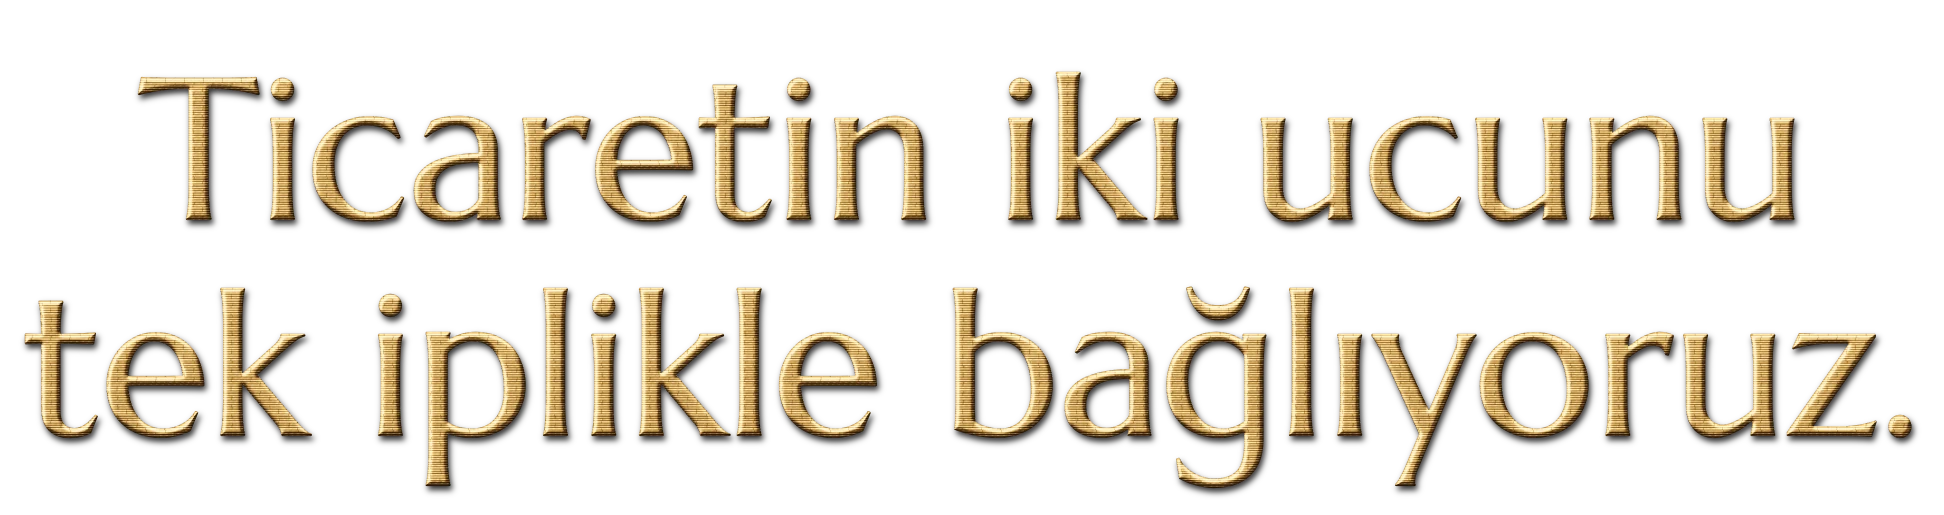
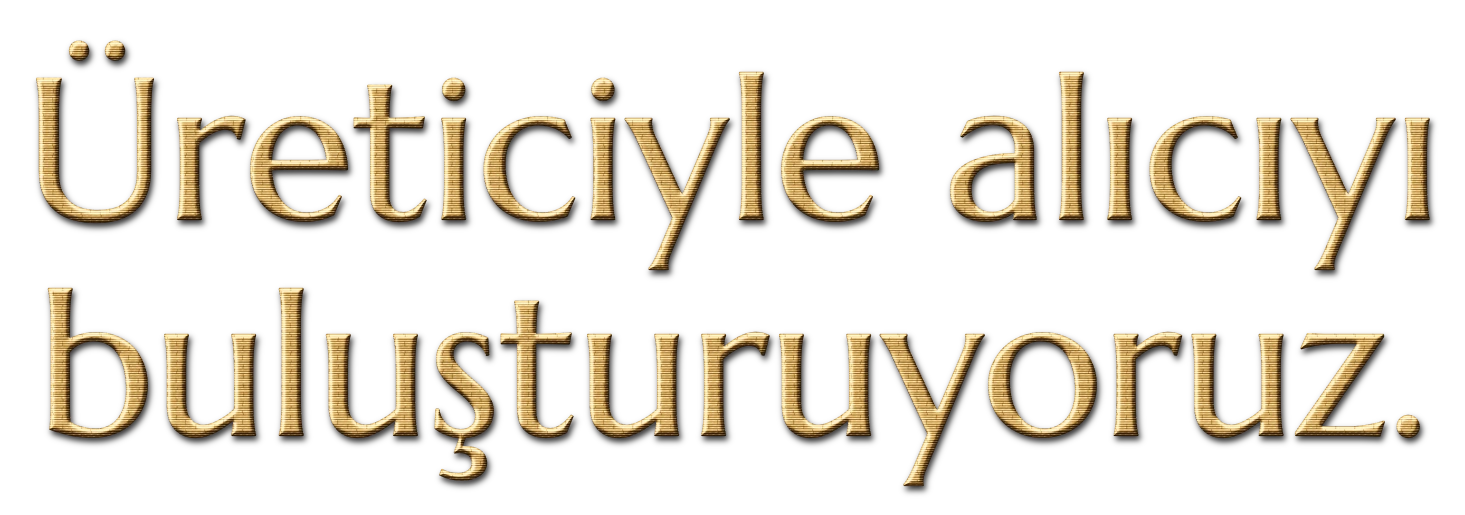
Sync from artiva: plain-language copy, page-wide sheen

diff --git a/index.html b/index.html
@@ -4,10 +4,10 @@
 <meta charset="utf-8">
 <meta name="viewport" content="width=device-width, initial-scale=1">
 <title>ARTİVA — İç ve Dış Ticaret A.Ş.</title>
-<meta name="description" content="ARTIVA İç ve Dış Ticaret A.Ş. — İstanbul merkezli aracılık ve ticaret şirketi: üretici araştırması, alıcı–satıcı buluşturma, ithalat-ihracat yönetimi ve kendi hesabına alım-satım.">
+<meta name="description" content="ARTIVA İç ve Dış Ticaret A.Ş. — İstanbul'da aracılık ve ticaret: üretici bulma, alıcı ve satıcıyı buluşturma, ithalat ve ihracat işlemleri, kendi hesabına alım satım.">
 <meta name="theme-color" content="#0B1124">
 <meta property="og:title" content="ARTİVA — İç ve Dış Ticaret A.Ş.">
-<meta property="og:description" content="Ticaretin iki ucunu tek iplikle bağlıyoruz.">
+<meta property="og:description" content="Üreticiyle alıcıyı buluşturuyoruz.">
 <meta property="og:image" content="assets/dival/logo-dival-photo.webp">
 <link rel="icon" type="image/svg+xml" href="logo/artiva-mark.svg">
 <link rel="preload" as="image" href="assets/dival/logo-dival-cut.webp">
@@ -72,10 +72,18 @@ section[id]{scroll-margin-top:84px}
 .plate{display:block;width:calc(var(--w) * 1em);max-width:100%;height:auto;margin-left:-.12em}
 .cord{height:12px;background:var(--cord) 0 0 / 600px 12px repeat-x}
 .velvet-lit{position:relative;isolation:isolate}
-.velvet-lit::before{ /* soft pile sheen: velvet catches light in broad pools */
+.velvet-lit::before{ /* soft pile sheen: velvet catches light in broad pools (a fixed pool where there is no pointer) */
   content:"";position:absolute;inset:0;z-index:-1;pointer-events:none;
-  background:radial-gradient(ellipse 60% 55% at var(--lx,50%) var(--ly,38%), rgba(120,140,205,.16), rgba(120,140,205,0) 70%);
+  background:radial-gradient(ellipse 60% 55% at 50% 38%, rgba(120,140,205,.16), rgba(120,140,205,0) 70%);
 }
+/* with a mouse the pool follows the pointer over the whole page: one fixed layer, so no section edge can cut it */
+.sheen{
+  position:fixed;inset:0;z-index:40;pointer-events:none;mix-blend-mode:soft-light;opacity:0;
+  transition:opacity .6s var(--ease);
+  background:radial-gradient(circle 560px at var(--lx,50%) var(--ly,40%), rgba(255,255,255,.36), rgba(255,255,255,0) 72%);
+}
+html.lit .sheen.on{opacity:1}
+html.lit .velvet-lit::before{display:none}
 
 /* ---------- buttons ---------- */
 .btn{
@@ -189,7 +197,7 @@ section[id]{scroll-margin-top:84px}
 .sectors{text-align:center}
 .sectors .h2{margin-bottom:18px}
 .sectors .intro{margin:0 auto}
-.medallion-wrap{position:relative;width:min(760px, 100%);aspect-ratio:1;margin:56px auto 0}
+.medallion-wrap{position:relative;width:min(760px, 100%);aspect-ratio:1;margin:56px auto 0;container-type:inline-size}
 .medallion{position:absolute;inset:22%;display:grid;place-items:center}
 .medallion .ring{position:absolute;inset:0;width:100%;height:100%}
 .medallion .mark{width:54%;height:auto;margin-top:-10%}
@@ -201,7 +209,9 @@ section[id]{scroll-margin-top:84px}
 .sector-list li{
   --a:calc(var(--i) * 45deg - 90deg);
   position:absolute;left:50%;top:50%;
-  transform:translate(-50%, -50%) rotate(var(--a)) translate(min(340px, 44vw)) rotate(calc(-1 * var(--a)));
+  transform:translate(-50%, -50%) rotate(var(--a)) translate(min(340px, 40vw)) rotate(calc(-1 * var(--a)));
+  /* the radius follows the circle, not the window, so the side labels never pass the screen edge */
+  transform:translate(-50%, -50%) rotate(var(--a)) translate(min(340px, 42cqi)) rotate(calc(-1 * var(--a)));
 }
 .sector-list button{
   border:0;background:transparent;padding:10px 12px;border-radius:8px;
@@ -317,10 +327,10 @@ section[id]{scroll-margin-top:84px}
       <span>ARTİVA</span>
     </a>
     <nav class="nav" id="nav" aria-label="Ana menü">
-      <a href="#biz" data-i18n="nav.who">Biz kimiz</a>
-      <a href="#hizmetler" data-i18n="nav.what">Ne yapıyoruz</a>
+      <a href="#biz" data-i18n="nav.who">Hakkımızda</a>
+      <a href="#hizmetler" data-i18n="nav.what">Hizmetler</a>
       <a href="#sektorler" data-i18n="nav.sectors">Sektörler</a>
-      <a href="#yol" data-i18n="nav.how">Nasıl ilerliyoruz</a>
+      <a href="#yol" data-i18n="nav.how">Nasıl çalışıyoruz</a>
       <a href="#iletisim" data-i18n="nav.contact">İletişim</a>
     </nav>
     <div class="tools">
@@ -342,14 +352,14 @@ section[id]{scroll-margin-top:84px}
       <img src="assets/dival/logo-dival-cut.webp" alt="ARTİVA İç ve Dış Ticaret Anonim Şirketi" width="1200" height="1043" fetchpriority="high">
       <div class="shine" aria-hidden="true"></div>
     </div>
-    <h1><span class="sr-only" data-i18n="hero.title">Ticaretin iki ucunu tek iplikle bağlıyoruz.</span><img class="plate" data-plate="h1" src="assets/dival/plate-h1-tr.webp" alt="" width="1944" height="515" style="--w:9.7214"></h1>
-    <p class="lede" data-i18n="hero.lede">Üreticiyi alıcıyla buluşturuyor, gerektiğinde malı kendimiz alıp satıyoruz — İstanbul'dan, yurt içine ve yurt dışına.</p>
+    <h1><span class="sr-only" data-i18n="hero.title">Üreticiyle alıcıyı buluşturuyoruz.</span><img class="plate" data-plate="h1" src="assets/dival/plate-h1-tr.webp" alt="" width="1465" height="515" style="--w:7.3269"></h1>
+    <p class="lede" data-i18n="hero.lede">Size uygun üreticiyi ya da alıcıyı buluyoruz; gerektiğinde ürünü kendimiz alıp satıyoruz. İstanbul'dan Türkiye'nin her yerine ve yurt dışına çalışıyoruz.</p>
     <div class="actions">
       <a class="btn" href="tel:+905332566813">
         <svg viewBox="0 0 24 24" fill="none" stroke="currentColor" stroke-width="1.8" stroke-linecap="round" stroke-linejoin="round" aria-hidden="true"><path d="M5 4h4l2 5-2.5 1.5a11 11 0 0 0 5 5L15 13l5 2v4a2 2 0 0 1-2 2A16 16 0 0 1 3 6a2 2 0 0 1 2-2"/></svg>
         <span data-i18n="hero.call">Bizi arayın</span>
       </a>
-      <a class="btn btn--line" href="#hizmetler" data-i18n="hero.more">Ne yapıyoruz</a>
+      <a class="btn btn--line" href="#hizmetler" data-i18n="hero.more">Hizmetlerimiz</a>
     </div>
   </section>
 
@@ -358,17 +368,17 @@ section[id]{scroll-margin-top:84px}
   <section class="section" id="biz">
     <div class="wrap">
       <div class="roles-head">
-        <h2 class="h2"><span class="sr-only" data-i18n="who.title">Hem aracı, hem tüccar.</span><img class="plate" data-plate="who" src="assets/dival/plate-who-tr.webp" alt="" width="1122" height="515" style="--w:5.6091"></h2>
-        <p class="intro" data-i18n="who.intro">ARTIVA İç ve Dış Ticaret A.Ş., Avrupa ile Asya'nın buluştuğu İstanbul'da, Kağıthane'de kurulu bir ticaret şirketidir. Bazı işlerde tarafları buluşturup süreci yönetiriz; bazılarında ürünü kendi hesabımıza alır, alıcısına biz teslim ederiz. Hangisinin size uygun olduğuna işin başında birlikte karar veririz.</p>
+        <h2 class="h2"><span class="sr-only" data-i18n="who.title">Hem aracıyız hem tedarikçiyiz.</span><img class="plate" data-plate="who" src="assets/dival/plate-who-tr.webp" alt="" width="1571" height="514" style="--w:7.8587"></h2>
+        <p class="intro" data-i18n="who.intro">ARTIVA İç ve Dış Ticaret A.Ş., İstanbul Kağıthane'de bulunan bir ticaret şirketidir. Bazı işlerde alıcıyla satıcıyı buluşturur, süreci baştan sona yönetiriz. Bazı işlerde ise ürünü kendimiz satın alır, alıcıya biz teslim ederiz. Hangi yolun size uygun olduğuna işin başında birlikte karar veririz.</p>
       </div>
       <div class="roles">
         <article class="role">
-          <h3 data-i18n="who.r1.title">Aracı olarak, doğru kapıyı biz çalarız.</h3>
-          <p data-i18n="who.r1.text">Uygun üreticiyi ya da alıcıyı bulur, teklifleri karşılaştırır, görüşmeleri ve siparişi koordine ederiz. Mal, sizinle karşı taraf arasında el değiştirir; biz süreci bir arada tutarız.</p>
+          <h3 data-i18n="who.r1.title">Aracı olarak: doğru firmayı biz buluruz.</h3>
+          <p data-i18n="who.r1.text">Size uygun üreticiyi ya da alıcıyı bulur, teklifleri karşılaştırır, görüşmeleri ve siparişi takip ederiz. Ürün doğrudan sizinle karşı taraf arasında el değiştirir; işin düzgün yürümesini biz sağlarız.</p>
         </article>
         <article class="role">
-          <h3 data-i18n="who.r2.title">Tüccar olarak, karşınızda tek satıcı olur.</h3>
-          <p data-i18n="who.r2.text">Ürünü biz satın alır, faturalandırır ve teslim ederiz. Tek sözleşme, tek fatura, tek muhatap: tedarik zincirinin geri kalanı bizim işimizdir.</p>
+          <h3 data-i18n="who.r2.title">Tedarikçi olarak: tek muhatabınız biziz.</h3>
+          <p data-i18n="who.r2.text">Ürünü biz satın alır, faturasını keser ve size teslim ederiz. Tek sözleşme, tek fatura, tek muhatap. Gerisini biz hallederiz.</p>
         </article>
       </div>
     </div>
@@ -377,17 +387,17 @@ section[id]{scroll-margin-top:84px}
   <section class="section" id="hizmetler" style="padding-top:0">
     <div class="wrap services">
       <div class="services-head">
-        <h2 class="h2"><span class="sr-only" data-i18n="svc.title">Yedi iş, tek adres.</span><img class="plate" data-plate="svc" src="assets/dival/plate-svc-tr.webp" alt="" width="913" height="514" style="--w:4.5657"></h2>
-        <p class="intro" data-i18n="svc.intro">Bir ürünün fabrikadan alıcısına ulaşması için gereken her ilmeği tek elden atıyoruz.</p>
+        <h2 class="h2"><span class="sr-only" data-i18n="svc.title">Yedi hizmet, tek adres.</span><img class="plate" data-plate="svc" src="assets/dival/plate-svc-tr.webp" alt="" width="1167" height="515" style="--w:5.8377"></h2>
+        <p class="intro" data-i18n="svc.intro">Bir ürünün fabrikadan alıcıya ulaşması için gereken her adımı tek elden yürütüyoruz.</p>
       </div>
       <ul class="svc-list">
-        <li class="svc"><img src="assets/dival/icon-own.webp" alt="" width="200" height="200" loading="lazy"><h3 data-i18n="s1.t">Kendi hesabımıza alım-satım</h3><p data-i18n="s1.d">Ürünü üreticiden biz alır, size tek fatura ile satarız. Tedarikin riskini ve takibini üstleniriz.</p></li>
-        <li class="svc"><img src="assets/dival/icon-wholesale.webp" alt="" width="200" height="200" loading="lazy"><h3 data-i18n="s2.t">Toptan tedarik</h3><p data-i18n="s2.d">Düzenli ve yüksek hacimli ihtiyaçlar için kesintisiz bir ürün akışı ve yedek kaynak planı kurarız.</p></li>
-        <li class="svc"><img src="assets/dival/icon-supplier.webp" alt="" width="200" height="200" loading="lazy"><h3 data-i18n="s3.t">Üretici araştırması</h3><p data-i18n="s3.d">İhtiyacınıza uyan fabrikaları bulur; kapasite, ürün yelpazesi ve fiyat seviyesine göre kısa liste çıkarırız.</p></li>
-        <li class="svc"><img src="assets/dival/icon-matching.webp" alt="" width="200" height="200" loading="lazy"><h3 data-i18n="s4.t">Alıcı–satıcı buluşturma</h3><p data-i18n="s4.d">Doğru alıcıyı doğru üreticiyle tanıştırır, ilk görüşmeyi biz hazırlarız.</p></li>
-        <li class="svc"><img src="assets/dival/icon-trade.webp" alt="" width="200" height="200" loading="lazy"><h3 data-i18n="s5.t">İthalat ve ihracat yönetimi</h3><p data-i18n="s5.d">Sınır ötesi işlerde yazışmayı, numuneyi, evrakı ve sevkiyat takvimini tek masadan yürütürüz.</p></li>
-        <li class="svc"><img src="assets/dival/icon-terms.webp" alt="" width="200" height="200" loading="lazy"><h3 data-i18n="s6.t">Ürün tanımı ve fiyat çerçevesi</h3><p data-i18n="s6.d">Ürünü, miktarı, kalite beklentisini ve hedef fiyatı yazıya dökeriz; pazarlık sağlam bir zeminde başlar.</p></li>
-        <li class="svc"><img src="assets/dival/icon-market.webp" alt="" width="200" height="200" loading="lazy"><h3 data-i18n="s7.t">Pazar okuması</h3><p data-i18n="s7.d">Yeni bir ürün ya da ülkeye girmeden önce talebi, rakipleri ve fiyat bandını inceler, kısa bir özet sunarız.</p></li>
+        <li class="svc"><img src="assets/dival/icon-own.webp" alt="" width="200" height="200" loading="lazy"><h3 data-i18n="s1.t">Kendi hesabımıza alım satım</h3><p data-i18n="s1.d">Ürünü üreticiden biz alır, size tek faturayla satarız. Tedarik riskini ve takibini biz üstleniriz.</p></li>
+        <li class="svc"><img src="assets/dival/icon-wholesale.webp" alt="" width="200" height="200" loading="lazy"><h3 data-i18n="s2.t">Toptan tedarik</h3><p data-i18n="s2.d">Düzenli ve büyük miktarlı alımlarda ürünün aksamadan gelmesini sağlar, yedek bir tedarikçiyi de hazır tutarız.</p></li>
+        <li class="svc"><img src="assets/dival/icon-supplier.webp" alt="" width="200" height="200" loading="lazy"><h3 data-i18n="s3.t">Üretici bulma</h3><p data-i18n="s3.d">İhtiyacınıza uygun fabrikaları bulur; kapasite, ürün çeşidi ve fiyata göre kısa bir liste hazırlarız.</p></li>
+        <li class="svc"><img src="assets/dival/icon-matching.webp" alt="" width="200" height="200" loading="lazy"><h3 data-i18n="s4.t">Alıcı ve satıcıyı buluşturma</h3><p data-i18n="s4.d">Doğru alıcıyı doğru üreticiyle tanıştırır, ilk görüşmeyi biz hazırlarız.</p></li>
+        <li class="svc"><img src="assets/dival/icon-trade.webp" alt="" width="200" height="200" loading="lazy"><h3 data-i18n="s5.t">İthalat ve ihracat işlemleri</h3><p data-i18n="s5.d">Yurt dışıyla yapılan işlerde yazışmaları, numuneleri, belgeleri ve sevkiyat tarihlerini tek elden takip ederiz.</p></li>
+        <li class="svc"><img src="assets/dival/icon-terms.webp" alt="" width="200" height="200" loading="lazy"><h3 data-i18n="s6.t">Ürün ve fiyat netleştirme</h3><p data-i18n="s6.d">Ürünü, miktarı, beklenen kaliteyi ve hedef fiyatı yazılı hâle getiririz; pazarlık sağlam bir temelle başlar.</p></li>
+        <li class="svc"><img src="assets/dival/icon-market.webp" alt="" width="200" height="200" loading="lazy"><h3 data-i18n="s7.t">Pazar araştırması</h3><p data-i18n="s7.d">Yeni bir ürüne ya da ülkeye girmeden önce talebi, rakipleri ve fiyatları inceler, size kısa bir rapor sunarız.</p></li>
       </ul>
     </div>
   </section>
@@ -396,8 +406,8 @@ section[id]{scroll-margin-top:84px}
 
   <section class="section sectors" id="sektorler">
     <div class="wrap">
-      <h2 class="h2"><span class="sr-only" data-i18n="sec.title">Sekiz sektör, tek masa.</span><img class="plate" data-plate="sec" src="assets/dival/plate-sec-tr.webp" alt="" width="2036" height="299" style="--w:10.1819"></h2>
-      <p class="intro" data-i18n="sec.intro">Aynı titizlikle çalıştığımız alanlar. Ayrıntı için birini seçin.</p>
+      <h2 class="h2"><span class="sr-only" data-i18n="sec.title">Sekiz sektör, tek ekip.</span><img class="plate" data-plate="sec" src="assets/dival/plate-sec-tr.webp" alt="" width="1952" height="299" style="--w:9.7629"></h2>
+      <p class="intro" data-i18n="sec.intro">Aynı özenle çalıştığımız alanlar. Ayrıntıları görmek için birini seçin.</p>
       <div class="medallion-wrap">
         <div class="medallion">
           <img class="ring" src="assets/dival/ring.webp" alt="" width="700" height="700" loading="lazy">
@@ -411,7 +421,7 @@ section[id]{scroll-margin-top:84px}
           <li style="--i:3"><button type="button" aria-pressed="false" data-key="x4" data-i18n="x4.t">Gıda ve tarım</button></li>
           <li style="--i:4"><button type="button" aria-pressed="false" data-key="x5" data-i18n="x5.t">Elektronik</button></li>
           <li style="--i:5"><button type="button" aria-pressed="false" data-key="x6" data-i18n="x6.t">Tüketim ürünleri</button></li>
-          <li style="--i:6"><button type="button" aria-pressed="false" data-key="x7" data-i18n="x7.t">Kimya ve hammadde</button></li>
+          <li style="--i:6"><button type="button" aria-pressed="false" data-key="x7" data-i18n="x7.t">Kimyasallar ve hammaddeler</button></li>
           <li style="--i:7"><button type="button" aria-pressed="false" data-key="x8" data-i18n="x8.t">Ambalaj ve plastik</button></li>
         </ul>
       </div>
@@ -423,15 +433,15 @@ section[id]{scroll-margin-top:84px}
   <section class="section" id="yol">
     <div class="wrap">
       <div class="process-head">
-        <h2 class="h2"><span class="sr-only" data-i18n="how.title">Beş düğümde bir anlaşma.</span><img class="plate" data-plate="how" src="assets/dival/plate-how-tr.webp" alt="" width="1268" height="514" style="--w:6.3435"></h2>
-        <p class="intro" data-i18n="how.intro">Fiyat, miktar ve kapsam iş başlamadan yazıya geçer. Her aşamayı bir düğümle bağlar, ancak ondan sonra bir sonrakine geçeriz.</p>
+        <h2 class="h2"><span class="sr-only" data-i18n="how.title">Beş adımda bir anlaşma.</span><img class="plate" data-plate="how" src="assets/dival/plate-how-tr.webp" alt="" width="1112" height="515" style="--w:5.5603"></h2>
+        <p class="intro" data-i18n="how.intro">İşe başlamadan önce fiyatı, miktarı ve işin kapsamını yazılı olarak netleştiririz. Bir adımı bitirmeden diğerine geçmeyiz.</p>
       </div>
       <ol class="steps" id="steps">
-        <li class="step"><span class="knot"><span>1</span></span><h3 data-i18n="p1.t">Dinleriz</h3><p data-i18n="p1.d">Ürünü, miktarı, kaliteyi ve hedef fiyatı birlikte netleştiririz.</p></li>
-        <li class="step"><span class="knot"><span>2</span></span><h3 data-i18n="p2.t">Ararız</h3><p data-i18n="p2.d">Üretici ya da alıcı adaylarını tarar, kısa liste çıkarırız.</p></li>
-        <li class="step"><span class="knot"><span>3</span></span><h3 data-i18n="p3.t">Karşılaştırırız</h3><p data-i18n="p3.d">Teklifleri fiyat, miktar ve koşullarıyla yan yana koyarız.</p></li>
-        <li class="step"><span class="knot"><span>4</span></span><h3 data-i18n="p4.t">Bağlarız</h3><p data-i18n="p4.d">Tarafları buluştururuz ya da ürünü kendimiz satın alırız.</p></li>
-        <li class="step"><span class="knot"><span>5</span></span><h3 data-i18n="p5.t">Teslim ederiz</h3><p data-i18n="p5.d">Siparişi teslime kadar izler, sonraki talepler için hazır kalırız.</p></li>
+        <li class="step"><span class="knot"><span>1</span></span><h3 data-i18n="p1.t">Dinleriz</h3><p data-i18n="p1.d">Ürünü, miktarı, kaliteyi ve hedef fiyatı birlikte belirleriz.</p></li>
+        <li class="step"><span class="knot"><span>2</span></span><h3 data-i18n="p2.t">Ararız</h3><p data-i18n="p2.d">Uygun üreticileri ya da alıcıları araştırır, kısa bir liste hazırlarız.</p></li>
+        <li class="step"><span class="knot"><span>3</span></span><h3 data-i18n="p3.t">Karşılaştırırız</h3><p data-i18n="p3.d">Gelen teklifleri fiyat, miktar ve şartlarıyla yan yana koyarız.</p></li>
+        <li class="step"><span class="knot"><span>4</span></span><h3 data-i18n="p4.t">Anlaşırız</h3><p data-i18n="p4.d">Tarafları bir araya getiririz ya da ürünü kendimiz satın alırız.</p></li>
+        <li class="step"><span class="knot"><span>5</span></span><h3 data-i18n="p5.t">Teslim ederiz</h3><p data-i18n="p5.d">Siparişi teslimata kadar takip eder, bir sonraki talebiniz için hazır oluruz.</p></li>
       </ol>
     </div>
   </section>
@@ -440,14 +450,14 @@ section[id]{scroll-margin-top:84px}
   <section class="call" id="iletisim">
     <div class="wrap">
       <h2 class="h2"><span class="sr-only" data-i18n="call.title">Bir telefonla başlayalım.</span><img class="plate" data-plate="call" src="assets/dival/plate-call-tr.webp" alt="" width="1138" height="515" style="--w:5.6902"></h2>
-      <p class="intro" data-i18n="call.intro">Tek numara, tek sorumlu. Ürününüzü, miktarı ve hedef pazarı anlatın; size hangi yolun uygun olduğunu birlikte belirleyelim.</p>
+      <p class="intro" data-i18n="call.intro">Tek numara, tek sorumlu kişi. Ürününüzü, miktarı ve hangi pazarda satış ya da alım yapmak istediğinizi anlatın; size en uygun yolu birlikte bulalım.</p>
       <a class="phone-big" href="tel:+905332566813" aria-label="+90 533 256 68 13"><img class="plate" src="assets/dival/plate-phone.webp" alt="" width="1675" height="299" style="--w:8.3743"></a>
       <div class="actions">
         <a class="btn" href="tel:+905332566813">
           <svg viewBox="0 0 24 24" fill="none" stroke="currentColor" stroke-width="1.8" stroke-linecap="round" stroke-linejoin="round" aria-hidden="true"><path d="M5 4h4l2 5-2.5 1.5a11 11 0 0 0 5 5L15 13l5 2v4a2 2 0 0 1-2 2A16 16 0 0 1 3 6a2 2 0 0 1 2-2"/></svg>
           <span data-i18n="call.btn">Hemen arayın</span>
         </a>
-        <a class="btn btn--line" href="https://www.google.com/maps/search/?api=1&amp;query=Ye%C5%9Filce%20Mah.%20Desteg%C3%BCl%20Sk.%20No%3A1%2F1%20Ka%C4%9F%C4%B1thane%20%C4%B0stanbul" target="_blank" rel="noopener" data-i18n="call.map">Haritada aç</a>
+        <a class="btn btn--line" href="https://www.google.com/maps/search/?api=1&amp;query=Ye%C5%9Filce%20Mah.%20Desteg%C3%BCl%20Sk.%20No%3A1%2F1%20Ka%C4%9F%C4%B1thane%20%C4%B0stanbul" target="_blank" rel="noopener" data-i18n="call.map">Haritada göster</a>
       </div>
       <address>
         ARTIVA İç ve Dış Ticaret Anonim Şirketi<br>
@@ -462,10 +472,10 @@ section[id]{scroll-margin-top:84px}
     <div class="foot">
       <a class="brand" href="#top"><img src="assets/dival/mark-dival.webp" alt="" width="744" height="597" loading="lazy"><span>ARTİVA</span></a>
       <nav aria-label="Alt menü">
-        <a href="#biz" data-i18n="nav.who">Biz kimiz</a>
-        <a href="#hizmetler" data-i18n="nav.what">Ne yapıyoruz</a>
+        <a href="#biz" data-i18n="nav.who">Hakkımızda</a>
+        <a href="#hizmetler" data-i18n="nav.what">Hizmetler</a>
         <a href="#sektorler" data-i18n="nav.sectors">Sektörler</a>
-        <a href="#yol" data-i18n="nav.how">Nasıl ilerliyoruz</a>
+        <a href="#yol" data-i18n="nav.how">Nasıl çalışıyoruz</a>
         <a href="#iletisim" data-i18n="nav.contact">İletişim</a>
       </nav>
     </div>
@@ -480,51 +490,75 @@ section[id]{scroll-margin-top:84px}
 (function(){
   var EN = {
     'skip':'Skip to content',
-    'nav.who':'Who we are','nav.what':'What we do','nav.sectors':'Sectors','nav.how':'How we work','nav.contact':'Contact',
-    'hero.title':'We tie both ends of a trade with one thread.',
-    'hero.lede':'We bring manufacturers and buyers together, and when it makes sense we buy and sell the goods ourselves — from Istanbul, at home and abroad.',
-    'hero.call':'Call us','hero.more':'What we do',
-    'who.title':'Broker and trader, in one house.',
-    'who.intro':'ARTIVA İç ve Dış Ticaret A.Ş. is a trading company in Kağıthane, Istanbul — where Europe meets Asia. On some deals we bring the parties together and run the process; on others we buy the goods on our own account and deliver them to the buyer ourselves. We decide together, at the start, which suits you.',
-    'who.r1.title':'As a broker, we knock on the right door.',
-    'who.r1.text':'We find the right manufacturer or buyer, compare offers, and coordinate the talks and the order. The goods change hands between you and the other side; we hold the process together.',
-    'who.r2.title':'As a trader, we become your one seller.',
-    'who.r2.text':'We buy the goods, invoice them and deliver them. One contract, one invoice, one contact: the rest of the supply chain is our job.',
-    'svc.title':'Seven jobs, one address.',
-    'svc.intro':'Every stitch it takes for a product to travel from the factory to its buyer, done by one hand.',
-    's1.t':'Trading on our own account','s1.d':'We buy the goods from the producer and sell them to you on a single invoice, taking on the sourcing risk and follow-up.',
-    's2.t':'Wholesale supply','s2.d':'For regular, high-volume needs we set up an uninterrupted product flow and a backup source plan.',
-    's3.t':'Manufacturer research','s3.d':'We find factories that fit your need and shortlist them by capacity, product range and price level.',
-    's4.t':'Buyer–seller introductions','s4.d':'We introduce the right buyer to the right producer and prepare the first conversation.',
-    's5.t':'Import & export handling','s5.d':'On cross-border deals we run correspondence, samples, paperwork and the shipping calendar from one desk.',
-    's6.t':'Specs & price framing','s6.d':'We put product, quantity, quality expectations and target price in writing, so negotiation starts on firm ground.',
-    's7.t':'Market reading','s7.d':'Before a new product or country, we review demand, competitors and the price band and hand you a short brief.',
-    'sec.title':'Eight sectors, one desk.',
-    'sec.intro':'The fields we work in with the same care. Pick one for details.',
-    'sec.hint':'Pick a sector.',
-    'x1.t':'Textiles & ready-to-wear','x2.t':'Machinery & spare parts','x3.t':'Building materials','x4.t':'Food & agriculture',
-    'x5.t':'Electronics','x6.t':'Consumer goods','x7.t':'Chemicals & raw materials','x8.t':'Packaging & plastics',
-    'how.title':'A deal in five knots.',
-    'how.intro':'Price, quantity and scope are in writing before work begins. We tie off each stage with a knot, and only then move on to the next.',
-    'p1.t':'We listen','p1.d':'Together we pin down the product, quantity, quality and target price.',
-    'p2.t':'We search','p2.d':'We scan candidate manufacturers or buyers and draw up a shortlist.',
-    'p3.t':'We compare','p3.d':'We lay the offers side by side with their price, quantity and terms.',
-    'p4.t':'We close','p4.d':'We bring the parties together — or buy the goods ourselves.',
-    'p5.t':'We deliver','p5.d':'We follow the order through to delivery and stay ready for the next request.',
-    'call.title':'Let’s start with one call.',
-    'call.intro':'One number, one person in charge. Tell us about your product, quantity and target market, and we’ll decide together which route fits.',
-    'call.btn':'Call now','call.map':'Open in Maps',
+    'nav.who':'About us',
+    'nav.what':'Services',
+    'nav.sectors':'Sectors',
+    'nav.how':'How we work',
+    'nav.contact':'Contact',
+    'hero.title':'We bring manufacturers and buyers together.',
+    'hero.lede':'We find the right manufacturer or buyer for you, and when needed we buy and sell the goods ourselves. We work from Istanbul, across Türkiye and abroad.',
+    'hero.call':'Call us',
+    'hero.more':'Our services',
+    'who.title':'Broker and supplier in one.',
+    'who.intro':'ARTIVA İç ve Dış Ticaret A.Ş. is a trading company based in Kağıthane, Istanbul. On some deals we bring the buyer and the seller together and manage the whole process. On others we buy the goods ourselves and deliver them to the buyer. At the start, we decide together which way suits you best.',
+    'who.r1.title':'As a broker: we find the right company.',
+    'who.r1.text':'We find a suitable manufacturer or buyer, compare offers, and follow up on the talks and the order. The goods pass directly between you and the other side; we make sure everything runs smoothly.',
+    'who.r2.title':'As a supplier: we are your single contact.',
+    'who.r2.text':'We buy the goods, invoice you and deliver them. One contract, one invoice, one contact. We take care of the rest.',
+    'svc.title':'Seven services, one address.',
+    'svc.intro':'We handle every step it takes for a product to get from the factory to the buyer.',
+    's1.t':'Buying and selling for our own account',
+    's1.d':'We buy the goods from the manufacturer and sell them to you on a single invoice. We take on the supply risk and the follow-up.',
+    's2.t':'Wholesale supply',
+    's2.d':'For regular, large orders we keep the goods coming without delays and keep a backup supplier ready.',
+    's3.t':'Finding manufacturers',
+    's3.d':'We find factories that match your needs and make a shortlist based on capacity, product range and price.',
+    's4.t':'Connecting buyers and sellers',
+    's4.d':'We introduce the right buyer to the right manufacturer and set up the first meeting.',
+    's5.t':'Import and export',
+    's5.d':'For international deals we handle the emails, samples, documents and shipping dates in one place.',
+    's6.t':'Product and price details',
+    's6.d':'We put the product, quantity, expected quality and target price in writing, so negotiations start on a solid basis.',
+    's7.t':'Market research',
+    's7.d':'Before you enter a new product or country, we look at demand, competitors and prices and give you a short report.',
+    'sec.title':'Eight sectors, one team.',
+    'sec.intro':'The fields we work in, all with the same care. Choose one to see the details.',
+    'sec.hint':'Choose a sector.',
+    'x1.t':'Textiles and clothing',
+    'x2.t':'Machinery and spare parts',
+    'x3.t':'Building materials',
+    'x4.t':'Food and agriculture',
+    'x5.t':'Electronics',
+    'x6.t':'Consumer goods',
+    'x7.t':'Chemicals and raw materials',
+    'x8.t':'Packaging and plastics',
+    'how.title':'A deal in five steps.',
+    'how.intro':'Before we start, we agree on price, quantity and scope in writing. We never move on to the next step before the current one is done.',
+    'p1.t':'We listen',
+    'p1.d':'Together we agree on the product, quantity, quality and target price.',
+    'p2.t':'We search',
+    'p2.d':'We look for suitable manufacturers or buyers and make a shortlist.',
+    'p3.t':'We compare',
+    'p3.d':'We put the offers side by side: price, quantity and terms.',
+    'p4.t':'We close the deal',
+    'p4.d':'We bring the two sides together, or we buy the goods ourselves.',
+    'p5.t':'We deliver',
+    'p5.d':'We follow the order until delivery and are ready for your next request.',
+    'call.title':'Let’s start with a phone call.',
+    'call.intro':'One number, one person in charge. Tell us about your product, the quantity and the market you want to sell to or buy from, and we’ll find the best way together.',
+    'call.btn':'Call now',
+    'call.map':'Show on map',
     'foot.rights':'All rights reserved.'
   };
   var NOTES = {
-    tr:{x1:'Kumaş, iplik ve hazır giyimde üretici ve alıcı ağı.',x2:'Üretim hatları için makine ve parça tedariki.',x3:'Şantiye ve proje ihtiyaçları için malzeme.',x4:'İşlenmiş gıda ve tarım ürünlerinde toplu tedarik.',x5:'Bileşenden son ürüne elektronik tedariki.',x6:'Mağaza ve dağıtım için günlük tüketim ürünleri.',x7:'Endüstriyel kimyasallar ve üretim hammaddeleri.',x8:'Ambalaj malzemeleri ve plastik ürünler.'},
-    en:{x1:'A network of fabric, yarn and garment producers and buyers.',x2:'Machinery and parts for production lines.',x3:'Materials for site and project needs.',x4:'Bulk supply of processed food and farm produce.',x5:'Electronics, from components to finished goods.',x6:'Everyday goods for retail and distribution.',x7:'Industrial chemicals and production inputs.',x8:'Packaging materials and plastic goods.'}
+    tr:{x1:'Kumaş, iplik ve hazır giyimde geniş bir üretici ve alıcı ağı.',x2:'Üretim hatları için makine ve yedek parça temini.',x3:'İnşaat ve projeler için gereken malzemeler.',x4:'İşlenmiş gıda ve tarım ürünlerinde toptan tedarik.',x5:'Parçadan bitmiş ürüne kadar elektronik tedariki.',x6:'Mağazalar ve dağıtımcılar için günlük kullanım ürünleri.',x7:'Sanayi kimyasalları ve üretim hammaddeleri.',x8:'Ambalaj malzemeleri ve plastik ürünler.'},
+    en:{x1:'A wide network of fabric, yarn and clothing makers and buyers.',x2:'Machines and spare parts for production lines.',x3:'Materials for construction sites and projects.',x4:'Wholesale supply of processed food and farm products.',x5:'Electronics, from parts to finished products.',x6:'Everyday products for shops and distributors.',x7:'Industrial chemicals and raw materials for production.',x8:'Packaging materials and plastic products.'}
   };
   var META = {
     tr:{title:document.title, desc:document.querySelector('meta[name=description]').content},
-    en:{title:'ARTİVA — Domestic & Foreign Trade Inc.', desc:'ARTIVA İç ve Dış Ticaret A.Ş. — an Istanbul broker and trader: manufacturer research, buyer–seller matching, import/export handling and own-account trading.'}
+    en:{title:'ARTİVA — Domestic & Foreign Trade Inc.', desc:'ARTIVA İç ve Dış Ticaret A.Ş. — a broker and trading company in Istanbul: finding manufacturers, connecting buyers and sellers, import and export, and buying and selling for its own account.'}
   };
-  var PLATES = {h1:[9.7214,1944,515,12.8435,2568,514],who:[5.6091,1122,515,8.5388,1708,515],svc:[4.5657,913,514,5.823,1164,514],sec:[10.1819,2036,299,10.6453,2129,299],how:[6.3435,1268,514,4.7166,943,515],call:[5.6902,1138,515,6.2039,1241,515]};
+  var PLATES = {h1:[7.3269,1465,515,11.2752,2255,515],who:[7.8587,1571,514,7.0711,1414,514],svc:[5.8377,1167,515,6.7341,1347,515],sec:[9.7629,1952,299,10.9861,2197,299],how:[5.5603,1112,515,4.5418,908,515],call:[5.6902,1138,515,6.7278,1345,515]};
   var lang = 'tr', current = null;
   var nodes = [].slice.call(document.querySelectorAll('[data-i18n]'));
   nodes.forEach(function(n){ n.setAttribute('data-tr', n.innerHTML); });
@@ -577,21 +611,27 @@ section[id]{scroll-margin-top:84px}
   var header = document.getElementById('header');
 
   // light on the gold: follows the pointer; on touch it sweeps once
-  var emblem = document.getElementById('emblem'), hero = document.getElementById('top');
+  var emblem = document.getElementById('emblem');
+  var sheen = document.createElement('div'); sheen.className = 'sheen'; sheen.setAttribute('aria-hidden', 'true');
+  document.body.appendChild(sheen);
   function light(px, py){
     var r = emblem.getBoundingClientRect();
     emblem.style.setProperty('--mx', ((px - r.left) / r.width * 100) + '%');
     emblem.style.setProperty('--my', ((py - r.top) / r.height * 100) + '%');
-    var h = hero.getBoundingClientRect();
-    hero.style.setProperty('--lx', ((px - h.left) / h.width * 100) + '%');
-    hero.style.setProperty('--ly', ((py - h.top) / h.height * 100) + '%');
+    sheen.style.setProperty('--lx', px + 'px');
+    sheen.style.setProperty('--ly', py + 'px');
+  }
+  if (!reduce && window.matchMedia('(hover: hover) and (pointer: fine)').matches){
+    document.documentElement.classList.add('lit');
+    var raf = 0, lx = 0, ly = 0;
+    addEventListener('pointermove', function(e){
+      if (e.pointerType !== 'mouse') return;
+      lx = e.clientX; ly = e.clientY; sheen.classList.add('on');
+      if (!raf) raf = requestAnimationFrame(function(){ raf = 0; light(lx, ly); });
+    }, {passive:true});
+    document.addEventListener('mouseout', function(e){ if (!e.relatedTarget) sheen.classList.remove('on'); });   // left the window
   }
   if (!reduce){
-    var raf = 0, lx = 0, ly = 0;
-    hero.addEventListener('pointermove', function(e){
-      lx = e.clientX; ly = e.clientY;
-      if (!raf) raf = requestAnimationFrame(function(){ raf = 0; light(lx, ly); });
-    });
     // opening sweep: the light crosses the sırma once
     var t0 = null;
     requestAnimationFrame(function sweep(t){
